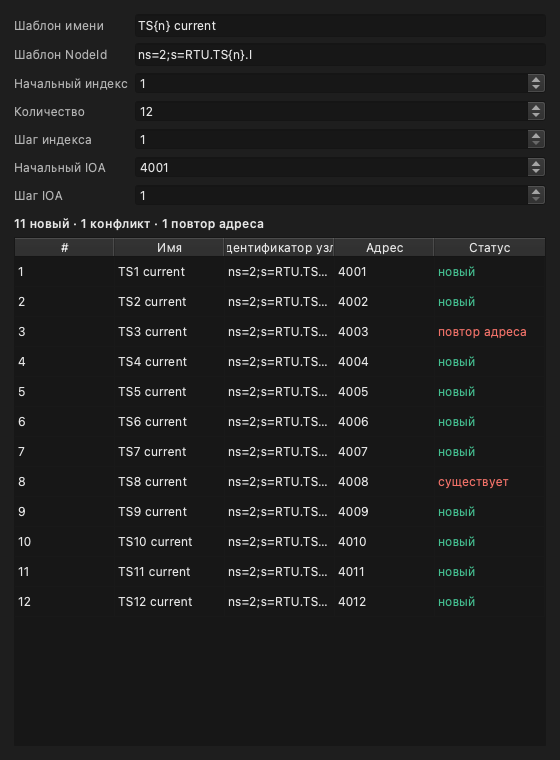
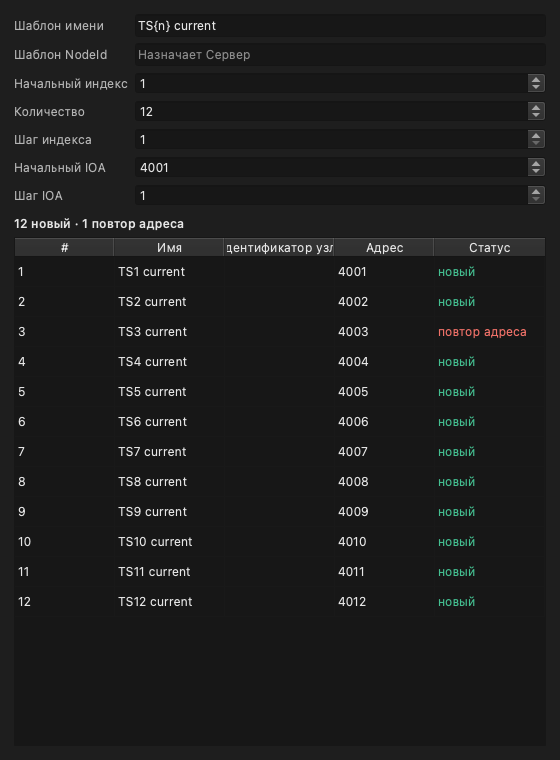
client, framework: shift handover reloads the profile; Control condition and cancel fixes (887, 958, 966, 711, 960, 961)
887: a sign-out that signs another account in now rebuilds the session.
ClientApplication::RebuildSessionAsync unwinds everything PostLoginAsync
pushed onto the shutdown stack, resets the unpushed post-login members in
the order ~ClientApplication destroys them, gives the post-login registries
(core commands, controllers, UI commands, opened-view commands, default node
handlers) fresh instances so nothing registers twice, and runs
PostLoginAsync again. "Connect to Server..." rebuilds too when the account
changed or a sign-out's dialog was cancelled. The rebuild exposed a
use-after-free in ConnectionStateReporter, whose executor-posted
session-state handler ran on the destroyed reporter; it is now bound to a
Cancelation.

958: TimedDataServiceImpl unbraces a braced identifier operand inside an
expression (`{IEC_DEV.1!5} = 1`), as the Server's name resolver does; a
braced alias stays unresolved on both sides.

966: OutputCondition::CheckAsync waits up to 2 s for the condition's first
value before refusing with Bad_WaitingForInitialData.

711: ~WriteModel cancels a select still outstanding, and a select accepted
after the model is gone is cancelled by CompleteSelectAsync. Chosen over a
cancel on the dialog's reject path because it covers every exit, which 959
made possible (the cancel holds nothing of the model). A refusal reported
after a sign-out has destroyed the event sink is dropped
(LocalEvents::lifetime()).
[…]

diff --git a/client.md b/client.md
@@ -17,9 +17,6 @@ permalink: /client/
 Подробности — по ссылкам; ограничения всего выпуска собраны в разделе
 [Известные ограничения]({{ '/changes/' | relative_url }}#known-limitations).
 
-* **Команда *Отключиться от сервера* не загружает профиль нового
-  пользователя** — смену передавайте, закрывая Клиент. Смотрите
-  [Передача смены](#shift-change).
 * **Звуковой сигнал тревоги выключен у каждой новой учётной записи** —
   включите его под учётной записью каждого диспетчера. Смотрите
   [Звуковое оповещение]({{ '/client/alarms/' | relative_url }}#tone).
@@ -182,7 +179,22 @@ permalink: /client/
 предыдущего диспетчера на этом компьютере к новой учётной записи не
 переходят. С компьютера берётся только положение и размер главных окон.
 
-Чтобы сдать смену:
+Чтобы сдать смену, не закрывая Клиент:
+
+1. Сдающий убеждается, что строка состояния показывает «Подключен», и
+   выбирает *Дополнительно → Отключиться от сервера*. Клиент сохраняет его
+   профиль на Сервере, завершает сеанс и открывает окно входа.
+2. Принимающий вводит в окне входа своё имя и пароль.
+3. Клиент закрывает страницы сдающего и открывает профиль принимающего: его
+   страницы, портфели, звуковой сигнал, настройку «Подтверждение управления» и
+   порог важности. Если у учётной записи принимающего на Сервере ещё нет
+   профиля, открывается профиль по умолчанию. Всё, что принимающий изменит,
+   сохраняется в **его** профиль.
+
+Окно входа, открытое этой командой, всегда ждёт ввода: сохранённый пароль
+сдающего в нём не подставляется (смотрите [Автоматический вход](#auto-login)).
+
+Можно сдать смену и закрытием Клиента:
 
 1. Флажок «Входить автоматически в следующий раз» на этом рабочем месте должен
    быть снят — иначе при запуске Клиент сам войдёт под учётной записью
@@ -210,17 +222,14 @@ permalink: /client/
 продолжить без копии на сервере.» Кнопка *Да* повторяет сохранение — нажмите
 её, когда связь восстановится. Кнопка *Нет* завершает сеанс без сохранения на
 Сервере: изменения страниц и настроек останутся только на этом компьютере.
-Поэтому закрывайте Клиент, пока строка состояния показывает «Подключен».
+Поэтому сдавайте смену, пока строка состояния показывает «Подключен».
 
-> **Внимание.** Не передавайте смену командой *Дополнительно → Отключиться от
-> сервера*. В текущей версии после этой команды и входа под другой учётной
-> записью в Клиенте остаются страницы и настройки **предыдущего** диспетчера, а
-> при выходе они сохраняются в профиль **нового** — его собственные страницы и
-> настройки на Сервере будут перезаписаны. Команда *Отключиться от сервера*
-> годится, чтобы войти заново под той же учётной записью.
-
-Если окно входа закрыть, Клиент остаётся отключённым; войти можно командой
-*Дополнительно → Подключиться к серверу...*.
+Если окно входа закрыть, Клиент остаётся отключённым, а на экране остаются
+страницы сдающего; войти можно командой *Дополнительно → Подключиться к
+серверу...*. Если под этой командой входит другая учётная запись — или вход
+следует за отключением, окно входа которого закрыли, — Клиент так же
+открывает профиль вошедшего. Когда та же учётная запись входит заново после
+разрыва связи, открытые окна остаются как были.
 
 Если учётной записи не разрешено несколько одновременных сеансов, а она уже
 используется на другом компьютере, при входе появится вопрос «Указанное имя
@@ -476,6 +485,9 @@ permalink: /client/
 По любому ответу, кроме «Да», — «Нет» или закрытию запроса подтверждения —
 команда исполнения не посылается, а выбор на устройстве снимается (для
 МЭК-60870-5 — деактивацией команды, для МЭК-61850 — службой Cancel).
+Выбор снимается и тогда, когда окно управления закрыли (клавишей *Esc* или
+кнопкой закрытия окна), пока шёл этап выбора: если устройство всё же примет
+выбор, Клиент сразу посылает отмену.
 Если устройство отказалось снять выбор, окно ошибки не показывается — оператор
 уже занят другим, — а Клиент добавляет в панель текущих событий собственное
 сообщение «Отмена выбора: <объект> - <причина>. Устройство может оставаться в

diff --git a/changes.md b/changes.md
@@ -76,6 +76,8 @@ permalink: /changes/
 
 1. Исправлено: поля со списком значений — «Протокол» и «Режим» направлений, «Преобразование» объектов ТИТ, «Тип» эмулируемого сигнала — снова предлагают варианты. Смотрите [Поля со списком значений]({{ '/dev/devices/' | relative_url }}#enum-lists).
 
+1. Если значение «Условия управления» объекта еще не получено (например, сразу после запуска или после переименования алиаса в условии), Сервер ждет его до 2 секунд и решает по нему, а не отклоняет первую команду. Смотрите [Объекты данных]({{ '/dev/data-items/' | relative_url }}).
+
 ### Клиент
 
 1. Главное окно — рабочее место с [панелью разделов]({{ '/client/workbench/' | relative_url }}#activity-bar) слева и панелью [«Инспектор»]({{ '/client/workbench/' | relative_url }}#inspector) справа, которая показывает выделенный объект или событие. Смотрите [Рабочее место оператора]({{ '/client/workbench/' | relative_url }}).
@@ -146,6 +148,16 @@ permalink: /changes/
 
 1. При двухэтапном управлении отказ устройства снять выбор сообщается в панели текущих событий: выбор тогда остается в силе до таймаута выбора устройства. Смотрите [Двухэтапное управление]({{ '/client/' | relative_url }}#two-stage).
 
+1. Передача смены командой *Отключиться от сервера*: после входа под другой учетной записью Клиент открывает профиль вошедшего — его страницы, портфели и настройки, — а не оставляет страницы предыдущего диспетчера. Смотрите [Передача смены]({{ '/client/' | relative_url }}#shift-change).
+
+1. Окно «Управление» находит ссылку на канал устройства в составе выражения «Условия управления», например `{IEC_DEV.1!5} = 1`, так же как Сервер, — управление из окна по такому условию больше не блокируется; то же относится к таблицам и пользовательским таблицам. Смотрите [Формулы]({{ '/formulas/' | relative_url }}).
+
+1. При двухэтапном управлении выбор на устройстве снимается и тогда, когда окно «Управление» закрыли во время этапа выбора. Смотрите [Двухэтапное управление]({{ '/client/' | relative_url }}#two-stage).
+
+1. Удаление портфеля или объекта из портфеля сначала запрашивает подтверждение. Смотрите [Портфели]({{ '/client/portfolio/' | relative_url }}).
+
+1. В мастере серийного создания поле «Шаблон NodeId» по умолчанию пусто, и идентификаторы присваивает Сервер; прежнее значение по умолчанию Сервер отклонял. Смотрите [Объекты данных]({{ '/dev/data-items/' | relative_url }}).
+
 ### Известные ограничения {#known-limitations}
 
 Прочитайте этот список до покупки и до обновления: каждое ограничение подробно описано на странице, на которую ведет ссылка.
@@ -199,8 +211,6 @@ permalink: /changes/
 1. Пароль встроенной учетной записи `root` меняется только командой `scada-setup set-password` на каждом компьютере Сервера: из Клиента Сервер в такой смене отказывает. Смотрите [Пароль root]({{ '/server/' | relative_url }}#root-password).
 
 #### Работа Клиента {#limits-client}
-
-1. После *Отключиться от сервера* и входа под другой учетной записью остаются страницы и настройки предыдущего диспетчера — при передаче смены перезапускайте Клиент. Смотрите [Передача смены]({{ '/client/' | relative_url }}#shift-change).
 
 1. С флажком «Входить автоматически в следующий раз» Клиент при запуске сам входит под последней учетной записью — на общем рабочем месте его не устанавливайте; чтобы войти под своей, удерживайте при запуске *Ctrl* (на macOS — *Option*). Смотрите [Автоматический вход]({{ '/client/' | relative_url }}#auto-login).
 

diff --git a/en/client.md b/en/client.md
@@ -23,8 +23,6 @@ Read this list before working at an operator workstation. Details are behind
 the links; the limitations of the whole release are collected under
 [Known limitations]({{ '/en/changes/' | relative_url }}#known-limitations).
 
-* **The *Disconnect from Server* command does not load the new user's profile** — hand
-  over by closing the client. See [Shift handover](#shift-change).
 * **The alarm tone is off for every new account** — turn it on under each
   operator's account. See
   [The alarm tone]({{ '/en/client/alarms/' | relative_url }}#tone).
@@ -190,7 +188,24 @@ opens the default profile: the previous operator's pages, portfolios and
 settings on this computer do not carry over to the new account. Only the
 position and size of the main windows are taken from the computer.
 
-To hand over a shift:
+To hand over a shift without closing the client:
+
+1. The outgoing operator makes sure the status bar reads "Connected" and
+   chooses *More → Disconnect from Server*. The client saves their profile on
+   the Server, ends the session and opens the sign-in window.
+2. The incoming operator enters their own name and password in the sign-in
+   window.
+3. The client closes the outgoing operator's pages and opens the incoming
+   operator's profile: their pages, portfolios, alarm tone, "Control
+   confirmation" setting and severity threshold. If the incoming account has
+   no profile on the Server yet, the default profile opens. Whatever the
+   incoming operator changes is saved into **their** profile.
+
+The sign-in window this command opens always waits for input: the outgoing
+operator's stored password is not filled in there (see
+[Automatic sign-in](#auto-login)).
+
+A shift can also be handed over by closing the client:
 
 1. "Sign in automatically next time" must be off at this workstation —
    otherwise the client signs the outgoing operator's account in by itself at
@@ -217,18 +232,15 @@ no connection to the Server), the client asks before it ends the session, in a
 server; it is kept on this computer only. Try again? Choose No to continue
 without the server copy." *Yes* tries the save again — press it once the
 connection is back. *No* ends the session without the Server copy: changes to
-pages and settings stay on this computer only. So close the client while the
-status bar reads "Connected".
+pages and settings stay on this computer only. So hand over while the status
+bar reads "Connected".
 
-> **Caution.** Do not hand over with *More → Disconnect from Server*. In the
-> current version, after that command and a sign-in under another account the
-> client keeps the **previous** operator's pages and settings, and on exit it
-> saves them into the **new** operator's profile — overwriting that
-> operator's own pages and settings on the Server. *Disconnect from Server* is
-> fine for signing in again under the same account.
-
-If the sign-in window is closed, the client stays disconnected; sign in with
-*More → Connect to Server...*.
+If the sign-in window is closed, the client stays disconnected with the
+outgoing operator's pages still on screen; sign in with *More → Connect to
+Server...*. If that sign-in is a different account — or it follows a
+disconnect whose sign-in window was closed — the client opens the signed-in
+account's profile in the same way. When the same account signs in again
+after a dropped connection, the open windows stay as they were.
 
 If the account is not allowed several sessions at once and is already in use
 on another computer, signing in asks "The specified username is already in use
@@ -447,8 +459,11 @@ IEC 60870-5 (SELECT/EXECUTE):
 
 Any answer other than yes — no, or closing the confirmation prompt — sends
 no execute command and releases the selection on the device (for IEC 60870-5
-by deactivating the command, for IEC 61850 with the Cancel service). If the
-device refuses the release, no error box is shown — the operator has already
+by deactivating the command, for IEC 61850 with the Cancel service). The
+selection is also released when the control window is closed (with *Esc* or
+the window's close button) while the select stage is still running: if the
+device accepts the select after all, the Client sends the release at once. If
+the device refuses the release, no error box is shown — the operator has already
 moved on — but the Client adds a message of its own to the current events
 panel: "Release of selection: <object> - <reason>. The device may stay
 selected until its own selection timeout expires." The selection stays armed

diff --git a/en/changes.md b/en/changes.md
@@ -76,6 +76,8 @@ This version is not yet published on the releases page.
 
 1. Fixed: the fields with a list of values — a direction's *Protocol* and *Mode*, a TIT object's *Conversion*, a simulation signal's *Type* — offer their choices again. See [Fields with a list of values]({{ '/en/dev/devices/' | relative_url }}#enum-lists).
 
+1. When no value of an object's Control condition has arrived yet (right after start-up, for example, or after an alias in the condition was renamed), the Server waits up to 2 seconds for one and decides on it rather than refusing the first command. See [Data items]({{ '/en/dev/data-items/' | relative_url }}).
+
 ### Client
 
 1. The main window is a workbench with the [section rail]({{ '/en/client/workbench/' | relative_url }}#activity-bar) on the left and the [Inspector]({{ '/en/client/workbench/' | relative_url }}#inspector) panel on the right, which shows the selected object or event. See [Operator workbench]({{ '/en/client/workbench/' | relative_url }}).
@@ -146,6 +148,16 @@ This version is not yet published on the releases page.
 
 1. With two-stage control, a device refusing to release the selection is reported in the current events panel: the selection then stays in force until the device's select timeout. See [Two-stage control]({{ '/en/client/' | relative_url }}#two-stage).
 
+1. Shift handover with *Disconnect from Server*: after a sign-in under another account the Client opens that account's profile — its pages, portfolios and settings — instead of keeping the previous operator's pages. See [Shift handover]({{ '/en/client/' | relative_url }}#shift-change).
+
+1. The Control window finds a device-channel reference inside a Control condition expression, such as `{IEC_DEV.1!5} = 1`, the same way the Server does, so control from the window is no longer blocked by such a condition; the same applies to tables and user tables. See [Formulas]({{ '/en/formulas/' | relative_url }}).
+
+1. With two-stage control, the selection on the device is also released when the Control window is closed during the select stage. See [Two-stage control]({{ '/en/client/' | relative_url }}#two-stage).
+
+1. Deleting a portfolio, or an object from one, asks for confirmation first. See [Portfolios]({{ '/en/client/portfolio/' | relative_url }}).
+
+1. In the bulk-create wizard the "NodeId template" field is empty by default, so the Server assigns the identifiers; the former default was one the Server refused. See [Data items]({{ '/en/dev/data-items/' | relative_url }}).
+
 ### Known limitations {#known-limitations}
 
 Read this list before buying and before upgrading: each limitation is described in detail on the page it links to.
@@ -199,8 +211,6 @@ Read this list before buying and before upgrading: each limitation is described 
 1. The built-in `root` account's password is changed only with `scada-setup set-password` on every Server computer: the Server refuses such a change from the Client. See [Root password]({{ '/en/server/' | relative_url }}#root-password).
 
 #### Working with the Client {#limits-client}
-
-1. After *Disconnect from Server* and logging in as another account, the previous operator's pages and settings remain — restart the Client at shift handover. See [Shift handover]({{ '/en/client/' | relative_url }}#shift-change).
 
 1. With "Sign in automatically next time" ticked, the Client logs in as the last account by itself at startup — do not tick it on a shared workstation; to sign in as yourself, hold *Ctrl* (on macOS, *Option*) while starting it. See [Automatic sign-in]({{ '/en/client/' | relative_url }}#auto-login).
 

diff --git a/en/dev/data-items.md b/en/dev/data-items.md
@@ -108,11 +108,10 @@ the Server assigns the rules' identifiers itself.
 
 The "NodeId template" sets the new objects' identifiers in OPC UA form. The
 Server accepts only numeric identifiers in the object type's namespace:
-<code>ns=1;i=…</code> for TS and <code>ns=2;i=…</code> for TIT. The value the
-wizard proposes (<code>ns=2;s=RTU.TS{n}.I</code>) is a string identifier, and
-the Server will not create such objects. <strong>The simplest is to clear the
-field:</strong> the Server then assigns free numbers itself, as it does for an
-ordinary create.
+<code>ns=1;i=…</code> for TS and <code>ns=2;i=…</code> for TIT; it does not
+accept string identifiers (such as <code>ns=2;s=…</code>). The field is empty
+by default (it shows "Assigned by the Server" in grey): the Server then assigns
+free numbers itself, as it does for an ordinary create.
 
 A live preview is built below — a row-number / Name / NodeId / IOA / Status
 grid. Status
@@ -268,16 +267,16 @@ references discrete-object aliases or their designations, such as
 Do not start it with <code>=</code>. The Server checks the condition on every
 control command to the object — from the Client's Control window, over
 retransmission from a dispatch centre, or from external OPC UA clients. While
-the condition is not met, its value is bad, or no value has arrived yet after
-start-up, the Server refuses the command, and the event journal records it as
-failed. Manual input is not restricted by the condition. The Control window
+the condition is not met or its value is bad, the Server refuses the command,
+and the event journal records it as failed. If no value of the condition has
+arrived yet (right after start-up, for example), the Server waits up to
+2 seconds for one and decides on it; if none arrives, the command is refused.
+Manual input is not restricted by the condition. The Control window
 checks the same condition in advance and does not let the command be sent.
-The condition does not replace an interlock in the device itself. Use a device-channel reference (for example
-<code>{IEC_DEV.1!5}</code>) only as the whole expression: inside an expression such as
-<code>{IEC_DEV.1!5} = 1</code> the Server resolves it and checks retransmitted and
-OPC UA commands against the condition, but the Client's Control window does
-not find it, treats the condition as unmet and blocks control from that
-window. So refer to the TS object that receives the channel's value instead.</dd>
+The condition does not replace an interlock in the device itself. The
+condition may refer to a device channel, inside an expression too, such as
+<code>{IEC_DEV.1!5} = 1</code>: the Control window and the Server evaluate it
+the same way.</dd>
 
 <dt>Stale timeout, s</dt>
 <dd>If the value is not updated within this interval, it is marked as

diff --git a/client/portfolio.md b/client/portfolio.md
@@ -63,4 +63,6 @@ permalink: /client/portfolio/
 
 Команда *Удалить* в контекстном меню удаляет выделенный объект из портфеля, а если выделен сам портфель — портфель целиком. При удалении объекта из системы он автоматически удаляется из всех портфелей.
 
-**ВНИМАНИЕ:** портфель удаляется сразу, **без подтверждения**, и отменить это нельзя — восстановить его можно, только собрав заново.
+Перед удалением Клиент спрашивает подтверждение: для портфеля — «Удалить портфолио «…» вместе со списком объектов? Отменить удаление нельзя.», для объекта — «Убрать «…» из портфолио «…»?». Удаление выполняется только по ответу «Да».
+
+**ВНИМАНИЕ:** отменить удаление нельзя — удалённый портфель можно восстановить, только собрав заново.

diff --git a/en/formulas.md b/en/formulas.md
@@ -69,14 +69,9 @@ and `{u35_s1}` are not references. A Cyrillic `ТИТ.1` is neither a
 designation nor a channel reference — it is found only if an alias with that
 exact text exists.
 
-**WARNING:** in tables, user tables and the Control condition a
-device-channel reference works only when it is the whole formula. Inside an expression (for example
-`{IEC_DEV.1!115} * 2`) the Client in this version does not find it. Refer
-there to the object that receives its value from that channel. A control
-condition such as `{IEC_DEV.1!5} = 1` is therefore never met in the Client's
-Control window, and control of the object from that window stays blocked,
-even though the Server evaluates such a condition and lets retransmitted and
-external OPC UA commands through by it.
+A device-channel reference works both as the whole formula and inside an
+expression, such as `{IEC_DEV.1!115} * 2` or the control condition
+`{IEC_DEV.1!5} = 1`: the Client and the Server resolve it the same way.
 
 ### A leading `=`
 

diff --git a/en/client/portfolio.md b/en/client/portfolio.md
@@ -71,5 +71,9 @@ its portfolio or, when the portfolio itself is selected, deletes the whole
 portfolio. If an object is deleted from the system, it is automatically
 removed from all portfolios.
 
-**WARNING:** a portfolio is deleted at once, **without confirmation**, and
-this cannot be undone — the only way back is to build it again.
+The Client asks for confirmation first — for a portfolio, "Delete the
+portfolio "…" with its list of objects? This cannot be undone.", for an
+object, "Remove "…" from the portfolio "…"?" — and deletes only on yes.
+
+**WARNING:** a deletion cannot be undone — the only way back to a deleted
+portfolio is to build it again.
